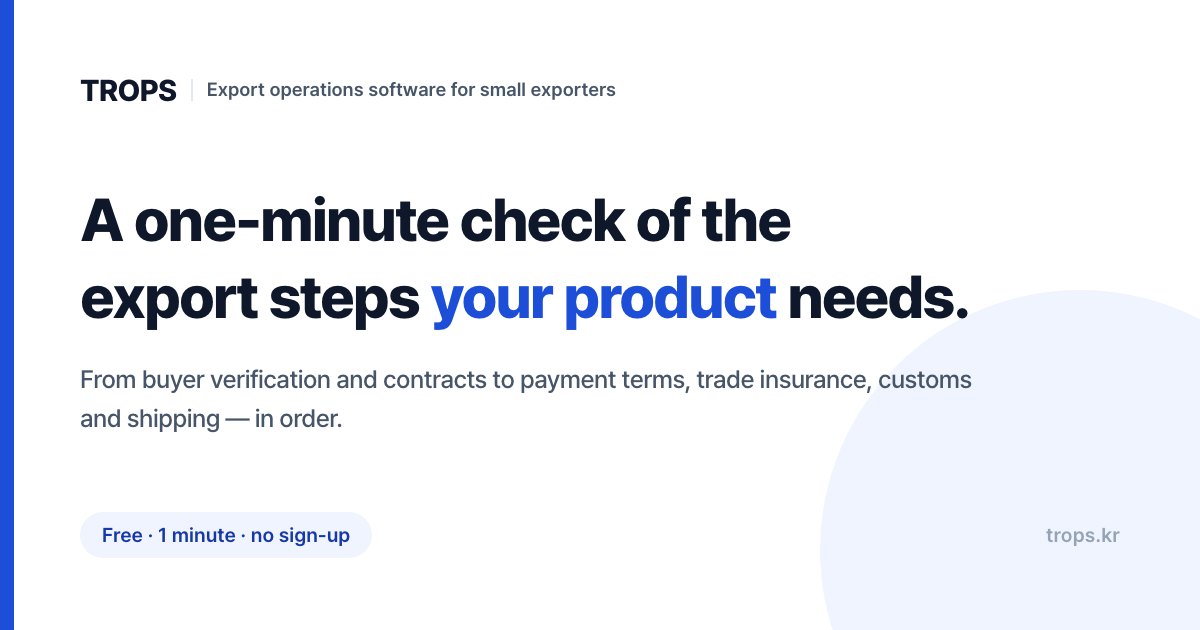
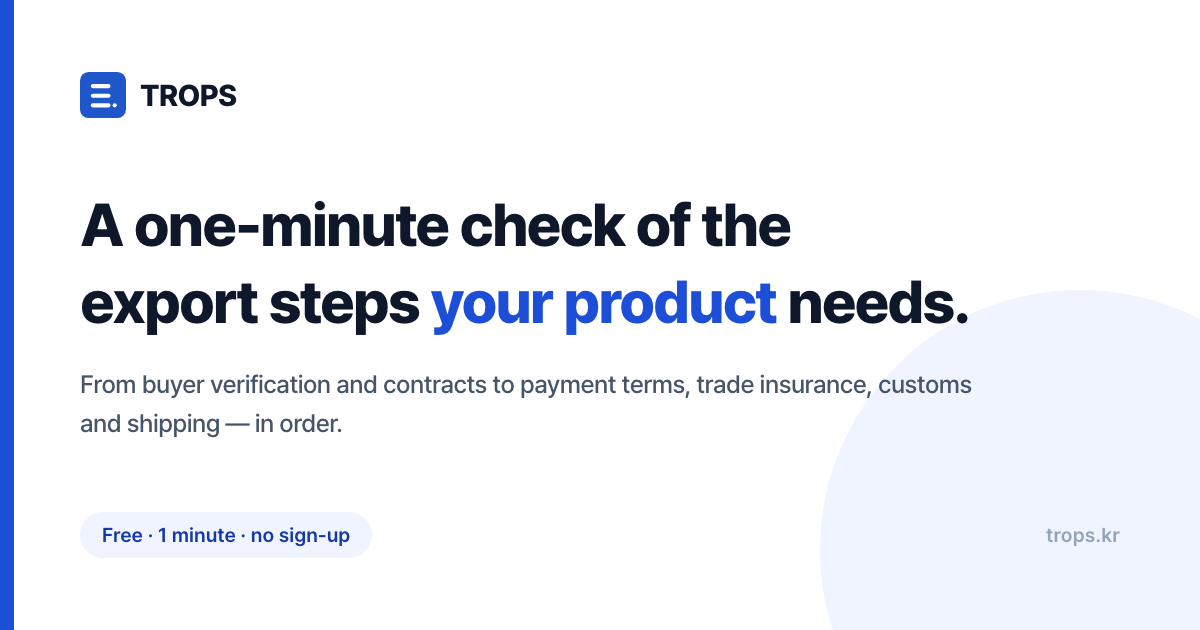
fix(meta): 카드 제목을 「중소기업을 위한 수출 업무 지원 소프트웨어」로 · OG 이미지에 실제 마크
〔2026-09-08 · 대표 지시〕 카카오톡 카드 제목이 「무역보험 서류 준비와 수출대금 관리 ·
TROPS」로 나오는데, 그 자리는 회사가 무엇인지를 말해야 한다.

🔴 **og:title 만** 바꿨다. <title> · description 은 그대로다.
   <title>      검색 결과·브라우저 탭 — 찾는 낱말(무역보험 서류 · 수출대금)이 필요하다
   og:title     카카오톡·슬랙 카드 제목 — 링크를 «처음 받는 사람»이 이게 뭔지 알아야 한다
   ⛔ 둘을 같게 맞추지 말 것. 맞추면 한쪽이 자기 일을 못 한다. 주석에 적어 두었다.
   ⚠ 카드에는 제목 아래 `trops.kr` 이 함께 나오므로 제목에 브랜드를 또 넣지 않았다
      (지시받은 문구 그대로).
   en.html 도 같은 판단으로 "Export operations software for small exporters".

OG 이미지 — 실제 브랜드 마크를 넣었다
   종전에는 「TROPS」를 텍스트로만 찍고 그 옆에 자리표시 문구를 뒀는데, 그 문구가
   이제 카드 제목이라 이미지에 또 있으면 같은 말이 두 번 보인다. 그 자리를
   img/icon_primary.svg 의 마크로 바꿨다(헤더 `.logo i` 가 쓰는 것과 같은 그림).

⚠ 워드마크 「TROPS」는 여전히 Pretendard Bold 로 «찍은» 것이다. 실제 로고가 전용
   레터링이라면 이 글자가 미세하게 다르다 — 벡터 파일을 받으면 교체할 자리다.

Claude-Session: https://claude.ai/code/session_0155Z5HWv9yeo3TQTgn8ddMc

diff --git a/index.html b/index.html
@@ -25,7 +25,14 @@
 <meta property="og:url" content="https://trops.kr/">
 <meta property="og:site_name" content="TROPS">
 <meta property="og:locale" content="ko_KR">
-<meta property="og:title" content="무역보험 서류 준비와 수출대금 관리 · TROPS">
+<!-- 🔴 **og:title 은 <title> 과 «일부러» 다릅니다** 〔2026-09-08 · 대표 지시〕.
+     <title> 은 검색 결과·브라우저 탭이라 찾는 낱말(무역보험 서류 · 수출대금)을 답니다.
+     og:title 은 **카카오톡·슬랙 카드의 제목**이고, 링크를 처음 받는 사람이 「이게 뭐냐」를
+     한 줄로 알아야 하는 자리라 회사가 무엇인지를 답니다.
+     ⛔ 둘을 같게 맞추지 마십시오 — 맞추면 한쪽이 자기 일을 못 합니다.
+     ⚠ 카드에는 이 제목 아래 `trops.kr` 이 함께 나오므로 제목에 브랜드를 또 넣지
+        않았습니다(대표 지시 문구 그대로). -->
+<meta property="og:title" content="중소기업을 위한 수출 업무 지원 소프트웨어">
 <meta property="og:description" content="무역보험 청구에 필요한 서류를 선적 전에 갖추고, 수출대금 미회수에 대비해 결제기일과 사고통지 기한을 관리합니다.">
 <meta name="twitter:card" content="summary_large_image">
 <!-- 🔴 **og:image 는 «있어야» 합니다** 〔2026-09-08 · 카카오톡 공유 실측〕.

diff --git a/en.html b/en.html
@@ -21,7 +21,8 @@
 <meta property="og:type" content="website">
 <meta property="og:site_name" content="TROPS">
 <meta property="og:url" content="https://trops.kr/en">
-<meta property="og:title" content="TROPS · A one-minute check of the export steps your product needs">
+<!-- 국문 index.html 의 같은 자리와 같은 판단입니다 — 그 주석을 보십시오. -->
+<meta property="og:title" content="Export operations software for small exporters">
 <meta property="og:description" content="Buyer verification, contracts, payment terms, trade insurance, customs and shipping — checked in order.">
 <meta property="og:locale" content="en_US">
 <meta name="twitter:card" content="summary_large_image">
